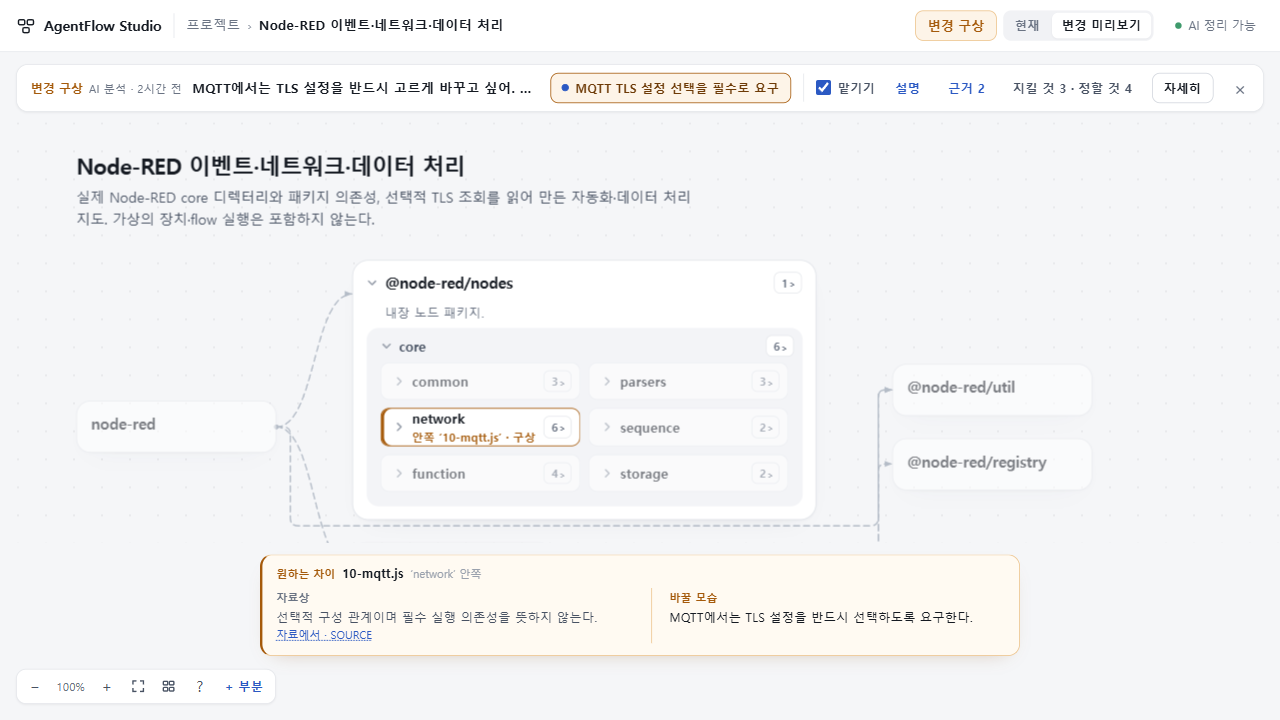
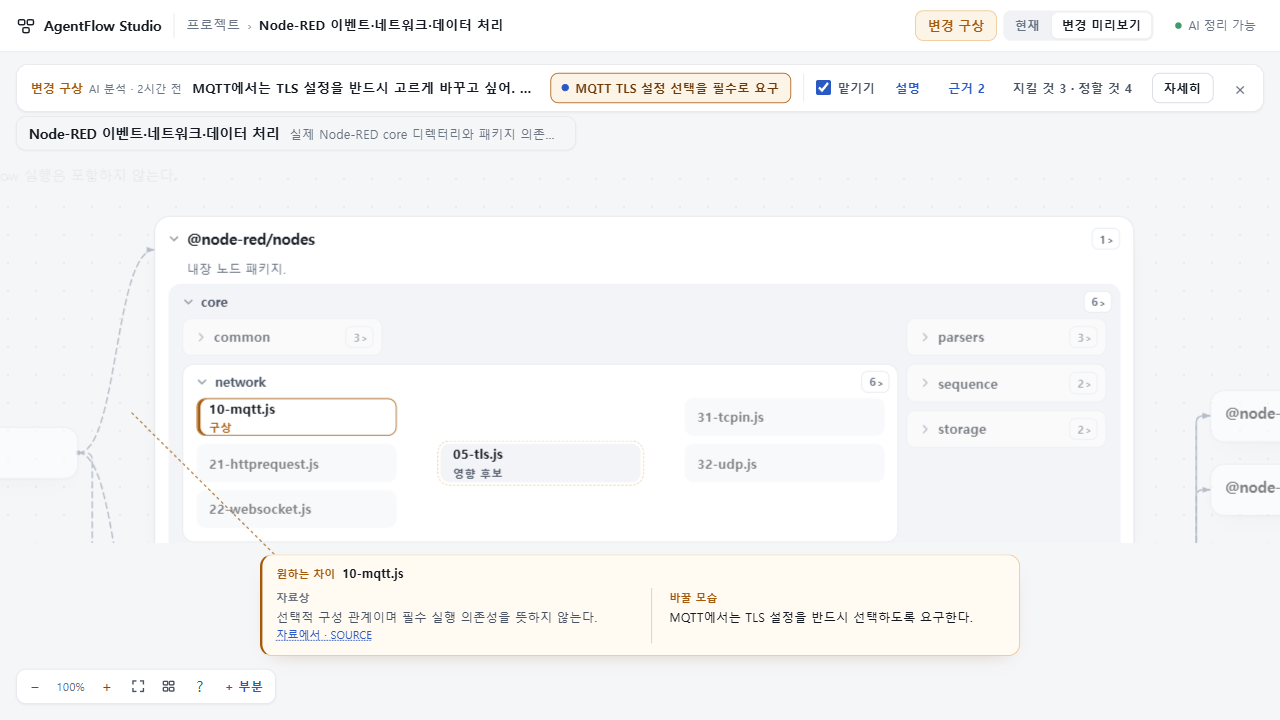
Record target context release and remaining independent design findings

diff --git a/docs/cycles/ACTIVE.md b/docs/cycles/ACTIVE.md
@@ -1,6 +1,6 @@
 # AgentFlow 현재 상태
 
-**시각 품질 재구성59 · 수정 배포, 품질 목표 진행 중:** [변경·판단·최소 재현 자료](2026-10-26-visual-experience-59/RESULT.md). 사용자는58의 시각 완성도를 반려했고 아래58의 CI·배포는 디자인 수용이 아니다. Claude 초기 구현/독립 반려를 받아 총괄과 Sol이 부분 곁 읽기, 실제 대상 탐색, 현재/의도 비교 및 가림·복귀를 수정했다. 최종 source `a4eb802ad4b33aca1f00873894db3295a613c803` 양OS CI40342207738 성공, Cloud1280/1440 가림 반례·근거/수동 이동 복귀 수용, PR31 merge와 app tree 동일 확인 후 Workers·보조Pages에 반영했다. 공개 BUILD와 Workers 실제 DeepSeek 응답 HTTP200 확인. 이것을 전체 제품의 구매 가치나 완성으로 확대하지 않으며 최종 Claude 시각 후속은 회수 전이다. 입력/출력 확장은 하지 않는다.
+**시각 품질 재구성59/후속60 · 수정 배포, 품질 목표 진행 중:** [변경·판단·최소 재현 자료](2026-10-26-visual-experience-59/RESULT.md). 현재 runtime `93cb8d355c9204a469fa9b38127ff68f0e3d5d1a`는 부분 곁 비교·가림/복귀 보정에 실제 대상 경로의 임시 펼침을 결합했다. 양OS CI40347988164 성공, Cloud1280/1440 대상 노출·사용자 접힘/근거/수동 이동 보존 수용, PR32 merge와 app tree 동일 후 Workers·보조Pages 반영·공개 BUILD/화면 확인. 실제 API는 앞선a4에서 검증했으며 서버 코드가 같은60에서 반복하지 않았다. 독립Claude의a4전체평가는 개선 인정·구매 판단 반려다. 다음61은 지도에 기존 wanted 직접 표시와 비교 가능한 현재/역할 맥락 구별을 좁게 개선한다. 사용자58반려와 아래CI·배포 성공을 제품 만족으로 혼동하지 않는다. 입력/출력 확장 없음.
 
 **시각 UI/UX58 · 2026-10-26:** [수용 결과·OSS 재현 자료·대표 화면](2026-10-26-visual-experience-58/RESULT.md). 사용자 최신 우선순위에 따라 입력·출력 확장보다 홈→지도→선택/내부→변경 비교→복귀를 정돈했다. 고정 Joplin/restic/Node-RED와 파생3자료의 1280·1440 실제 화면 검토에서 가림·관계선 오독·긴 이름 잘림을 수정했다. source `52e8c44c817e494cfd5c367f6a116b728ec293ee`의 양OS CI40312210728 성공, PR30 merge와 app tree 동일 확인 후 기존 Workers·보조Pages 반영 및 공개 BUILD 확인. Cloud의 d64f 두 반례 재검토 수용과 최종52e8 글꼴 보정의 총괄/CI 검증은 구별한다. 자동 지도 생성·OSS 자체 실행의 성공으로 확대하지 않는다. 다음도 사용자 지시 없이 입력 수집/출력 기능으로 넓히지 않으며, 실제 자료에서 이해를 방해하는 시각·탐색 문제를 우선한다.
 
